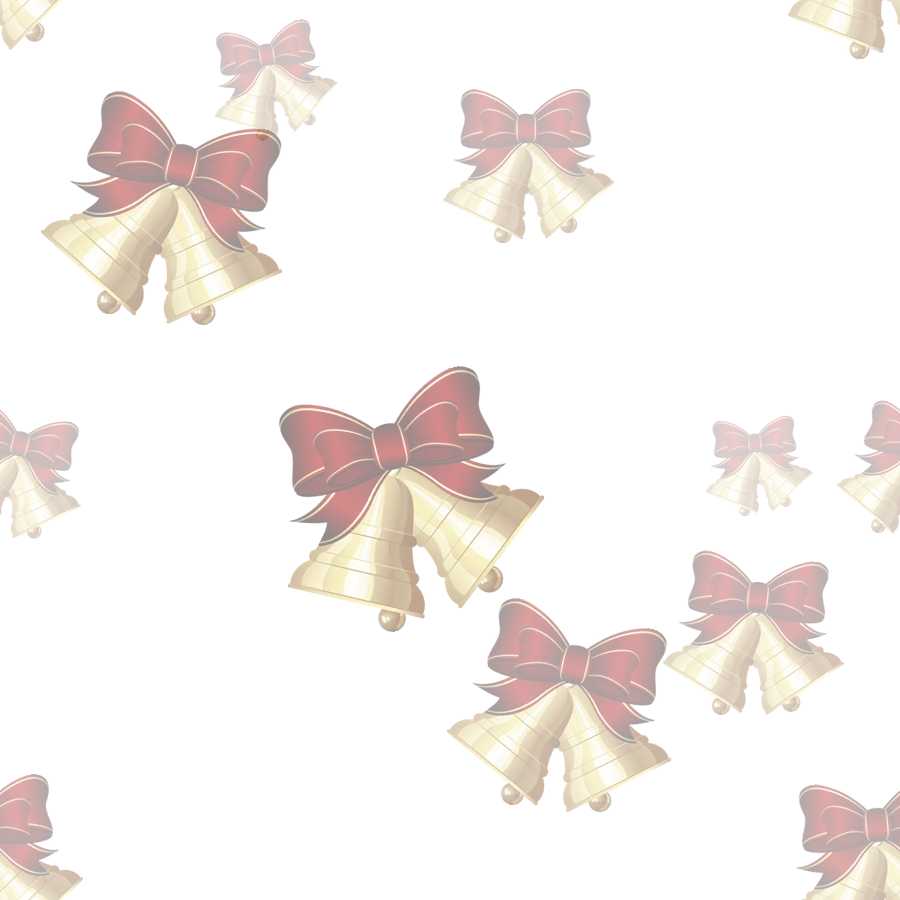
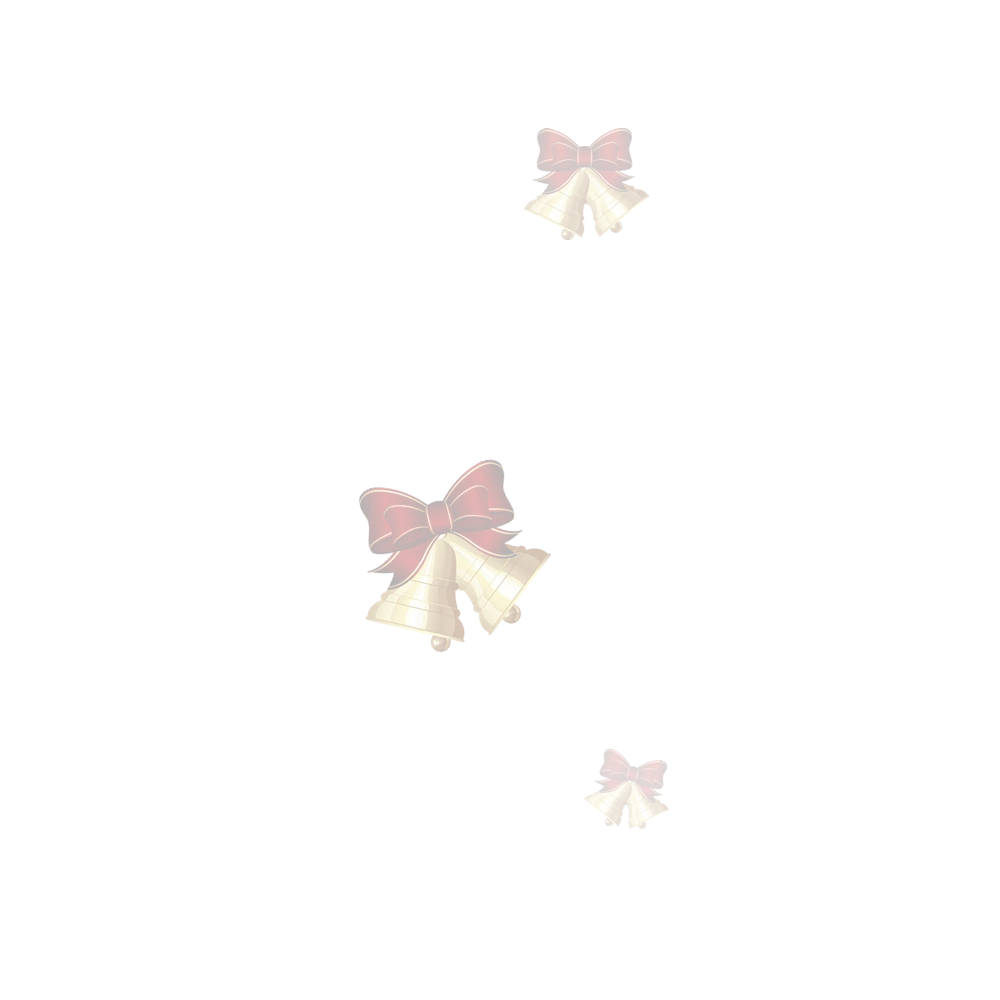
Menos campanas: tres por baldosa y solo dos grandes
Habia demasiadas y el fondo competia con las fotos. Ahora:
- tres campanas por baldosa en vez de nueve, mucho mas separadas y mas
  tenues (0.16-0.30 de opacidad), y la baldosa se sirve a 760px en vez de
  460, asi que quedan aun mas espaciadas en pantalla
- de cinco campanas grandes flotando se pasa a dos, en esquinas opuestas
- el archivo baja de 74 KB a 17 KB

diff --git a/css/styles.css b/css/styles.css
@@ -1413,11 +1413,13 @@ html.navidad .sd{
   filter:drop-shadow(0 6px 18px rgba(0,0,0,.45));
   transform-origin:50% 4%;
 }
+/* solo dos, en esquinas opuestas. Cinco campanas grandes mas el fondo era
+   demasiado: el fondo se convertia en ruido y competia con las fotos. */
 html.navidad .sd-1{animation:nvBalanceo 7s ease-in-out infinite}
-html.navidad .sd-2{animation:nvBalanceo 9s ease-in-out infinite;animation-delay:-2s}
-html.navidad .sd-3{animation:nvBalanceo 8s ease-in-out infinite;animation-delay:-4s;opacity:.16}
-html.navidad .sd-4{animation:nvBalanceo 10s ease-in-out infinite;animation-delay:-1s;opacity:.17}
-html.navidad .sd-5{animation:nvBalanceo 11s ease-in-out infinite;animation-delay:-6s;opacity:.13}
+html.navidad .sd-4{animation:nvBalanceo 10s ease-in-out infinite;animation-delay:-3s;opacity:.15}
+html.navidad .sd-2,
+html.navidad .sd-3,
+html.navidad .sd-5{display:none}
 @keyframes nvBalanceo{
   0%,100%{transform:rotate(-3.5deg)}
   50%{transform:rotate(3.5deg)}
@@ -1432,7 +1434,7 @@ html.navidad .sd-5{animation:nvBalanceo 11s ease-in-out infinite;animation-delay
 html.navidad body{
   background-image:url(../assets/img/deco/nv-fondo-campanas.webp);
   background-repeat:repeat;
-  background-size:460px auto;
+  background-size:760px auto;
   background-attachment:fixed;
 }
 /* Las secciones alternas llevan fondo opaco y taparian el patron. En
@@ -1512,7 +1514,7 @@ html.navidad .strip{background-color:rgba(7,16,12,.84)}
   .nv-banda{padding:54px 0 58px}
   /* background-attachment:fixed se atasca en los navegadores de movil y
      fuerza repintados; ahi el fondo va con la pagina. */
-  html.navidad body{background-attachment:scroll;background-size:300px auto}
+  html.navidad body{background-attachment:scroll;background-size:420px auto}
   .nv-mosaico{columns:2;column-gap:11px}
   .nv-mosaico figure{margin-bottom:11px}
   .btn-nv{width:100%;justify-content:center}

diff --git a/index.html b/index.html
@@ -9,7 +9,7 @@
 <link rel="preconnect" href="https://fonts.googleapis.com">
 <link rel="preconnect" href="https://fonts.gstatic.com" crossorigin>
 <link href="https://fonts.googleapis.com/css2?family=Outfit:wght@300;400;500;600;700&family=Inter:wght@400;500;600&display=swap" rel="stylesheet">
-<link rel="stylesheet" href="css/styles.css?v=72">
+<link rel="stylesheet" href="css/styles.css?v=73">
 </head>
 <body>
 
@@ -260,8 +260,8 @@
 <script src="js/config.js"></script>
 <!-- navidad.js va ANTES que main.js: si esta encendido quita el id featAlt,
      y asi main.js no llega a montar el carrusel del destacado del medio. -->
-<script src="js/navidad.js?v=72"></script>
-<script src="js/main.js?v=72"></script>
+<script src="js/navidad.js?v=73"></script>
+<script src="js/main.js?v=73"></script>
 <script>
 if ('serviceWorker' in navigator) window.addEventListener('load', () => navigator.serviceWorker.register('/sw.js').catch(() => {}));
 </script>

diff --git a/cotiza/index.html b/cotiza/index.html
@@ -10,7 +10,7 @@
 <link rel="preconnect" href="https://fonts.googleapis.com">
 <link rel="preconnect" href="https://fonts.gstatic.com" crossorigin>
 <link href="https://fonts.googleapis.com/css2?family=Outfit:wght@300;400;500;600;700&family=Inter:wght@400;500;600&display=swap" rel="stylesheet">
-<link rel="stylesheet" href="css/styles.css?v=72">
+<link rel="stylesheet" href="css/styles.css?v=73">
 </head>
 <body class="page-cotiza">
 
@@ -232,8 +232,8 @@
 
 
 <script src="js/config.js"></script>
-<script src="js/main.js?v=72"></script>
-<script src="js/navidad.js?v=72"></script>
+<script src="js/main.js?v=73"></script>
+<script src="js/navidad.js?v=73"></script>
 <script>
 if ('serviceWorker' in navigator) window.addEventListener('load', () => navigator.serviceWorker.register('/sw.js').catch(() => {}));
 </script>

diff --git a/sw.js b/sw.js
@@ -3,7 +3,7 @@
    La página queda guardada en el dispositivo:
    si el servidor o el internet fallan, igual abre.
    ═══════════════════════════════════════════ */
-const VERSION = 'cce-v20';
+const VERSION = 'cce-v21';
 const SHELL = `${VERSION}-shell`;
 const MEDIA = `${VERSION}-media`;
 
@@ -11,8 +11,8 @@ const MEDIA = `${VERSION}-media`;
 const BASE = [
   '/',
   '/cotiza',
-  '/css/styles.css?v=72',
-  '/js/main.js?v=72',
+  '/css/styles.css?v=73',
+  '/js/main.js?v=73',
   '/js/config.js',
   '/assets/img/logo-mark-glow.webp',
   '/assets/img/hero-feathers.webp',

diff --git a/tools/campanas_fondo.py b/tools/campanas_fondo.py
@@ -14,17 +14,18 @@ OUT = os.path.normpath('C:/Users/EQUIPO/AppData/Local/Temp/claude/'
                        '743bcc5d-28f7-4b2e-a146-7922b8ed0f28/scratchpad/nv')
 DEST = 'assets/img/deco/nv-fondo-campanas.webp'
 
-LADO = 900
+LADO = 1000
 random.seed(11)
 
 base = Image.open(SRC).convert('RGBA')
 base = base.crop(base.getbbox())
 
-# (ancho relativo a la baldosa, opacidad)  — tamanos muy distintos dan profundidad
+# Pocas y bien separadas: tres por baldosa, y la baldosa se sirve grande.
+# Con mas, el fondo se convierte en papel pintado y compite con el contenido.
 PIEZAS = [
-    (0.30, 0.46), (0.19, 0.30), (0.25, 0.38), (0.14, 0.24),
-    (0.22, 0.34), (0.16, 0.26), (0.27, 0.42), (0.12, 0.20),
-    (0.20, 0.31),
+    (0.195, 0.30),   # una grande
+    (0.125, 0.22),   # una mediana
+    (0.085, 0.16),   # una chica, casi insinuada
 ]
 
 tile = Image.new('RGBA', (LADO, LADO), (0, 0, 0, 0))
@@ -35,7 +36,7 @@ for rel, op in PIEZAS:
     r = max(w, h) / 2
     for _ in range(320):                       # busca sitio sin amontonarse
         cx, cy = random.random() * LADO, random.random() * LADO
-        if all((cx - px) ** 2 + (cy - py) ** 2 > (r + pr) ** 2 * 0.80
+        if all((cx - px) ** 2 + (cy - py) ** 2 > (r + pr) ** 2 * 2.20
                for px, py, pr in puestas):
             break
     puestas.append((cx, cy, r))
